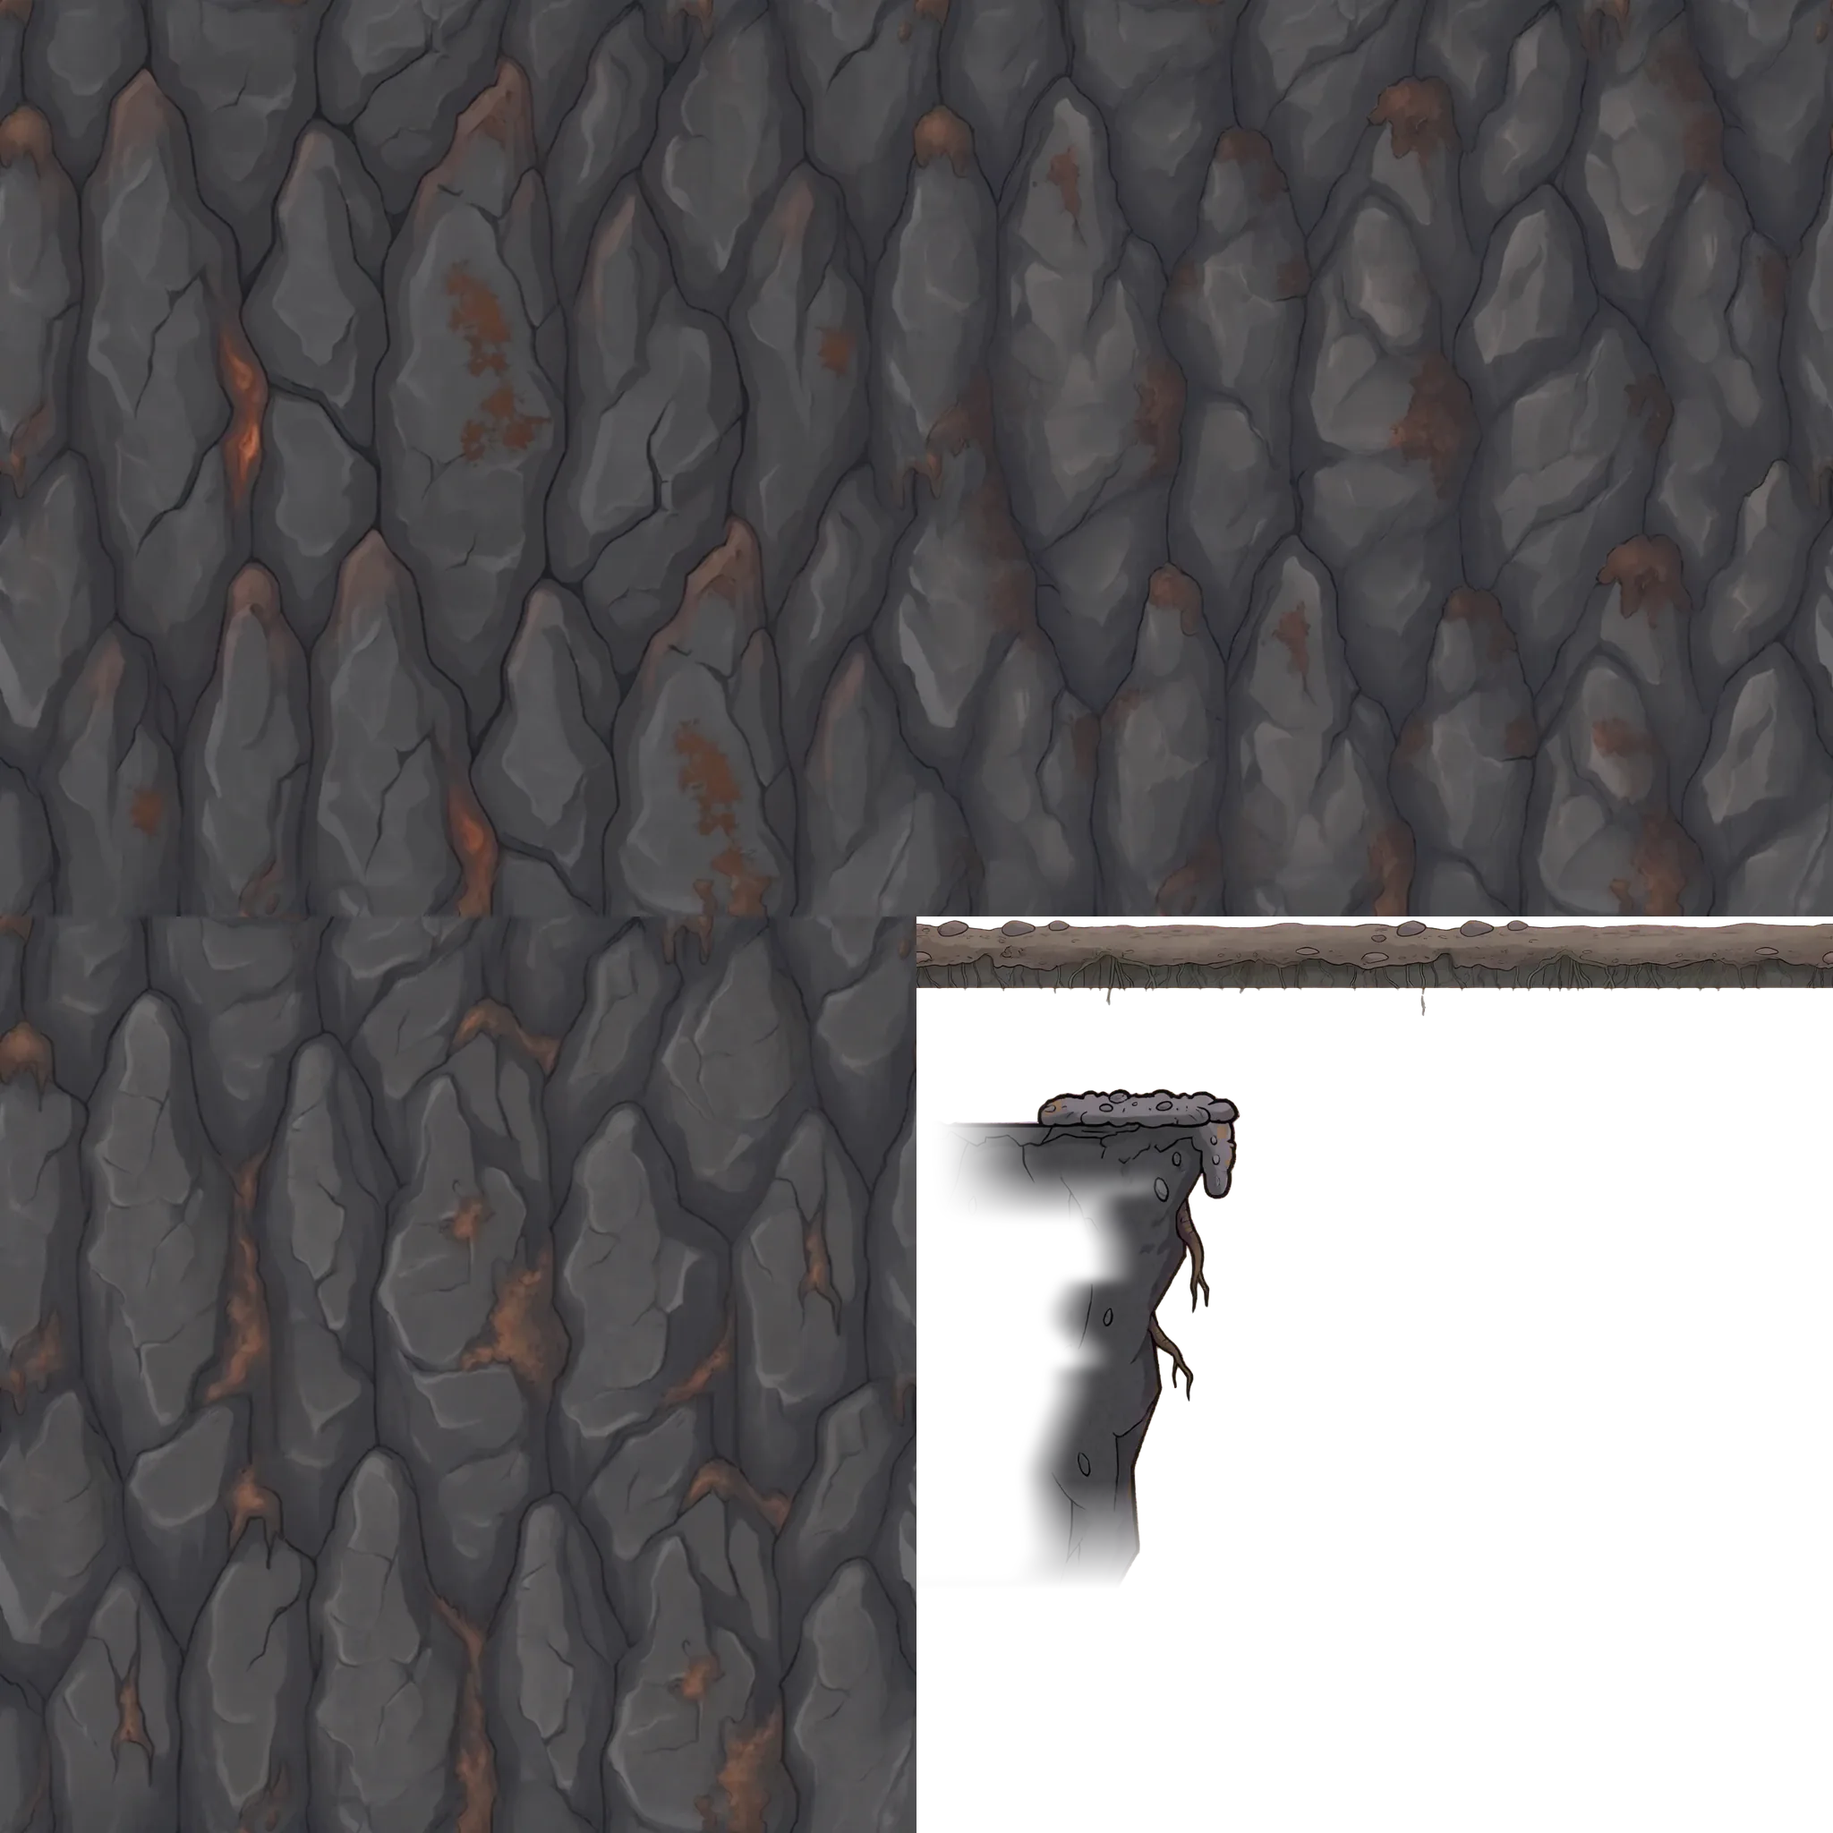
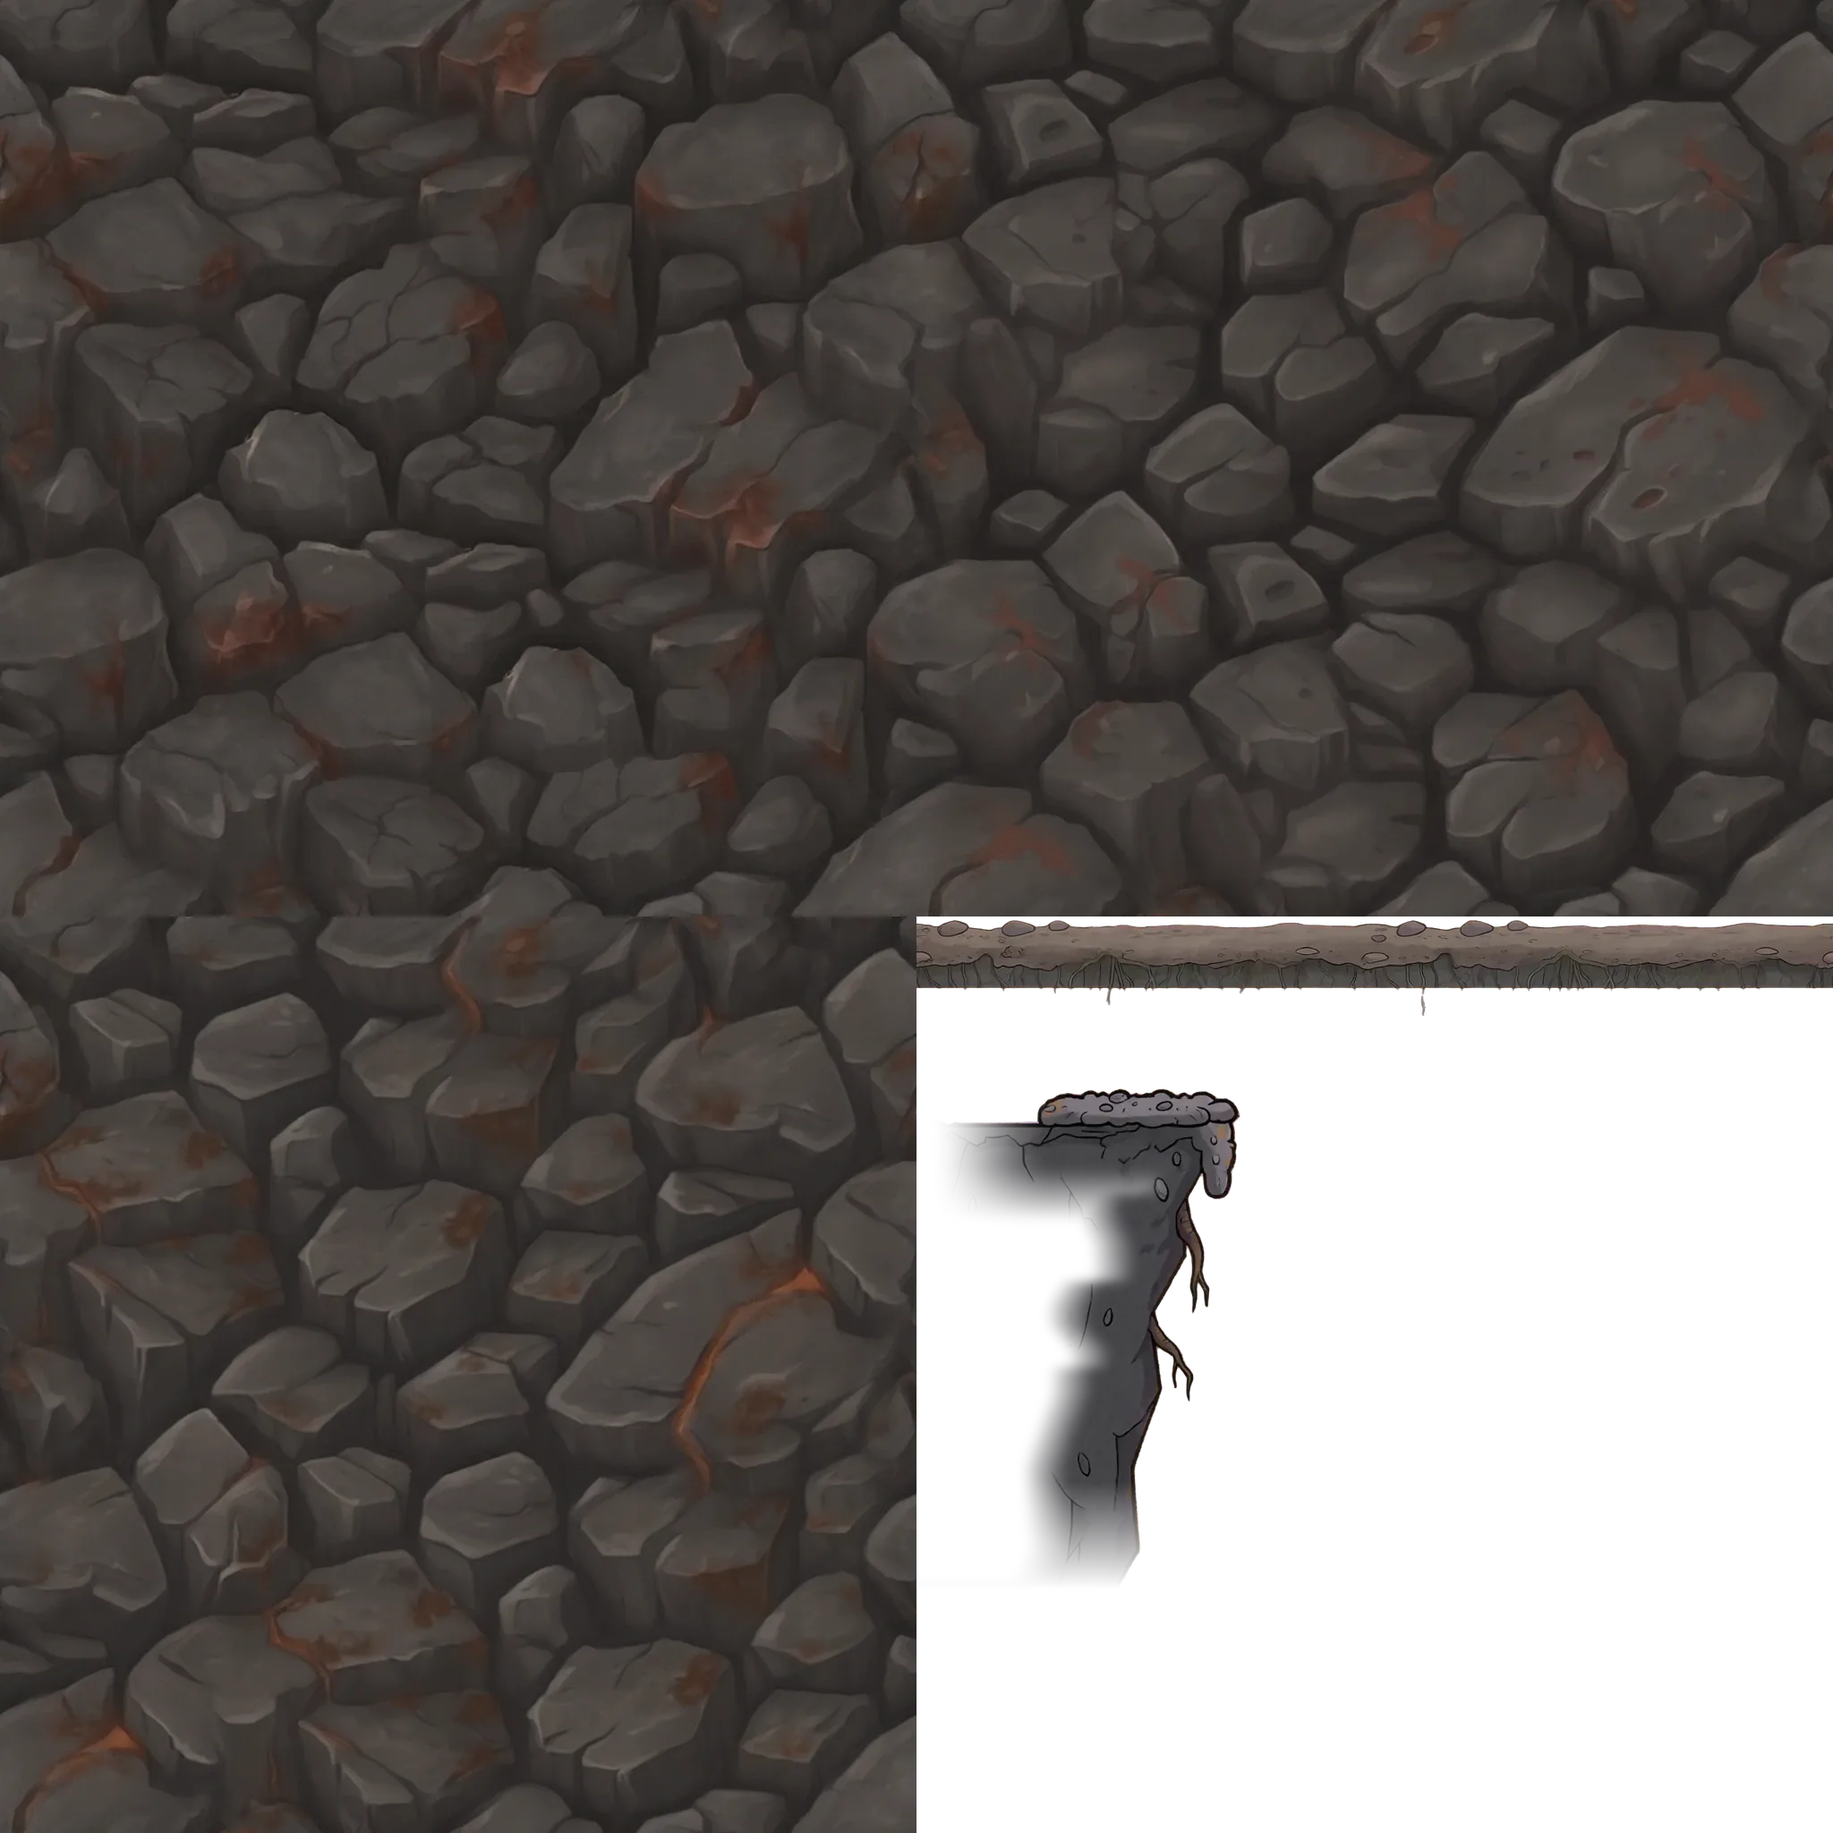
World 10 soil redo (take c), water signs stand on the near lip, 5-7/5-9 sheet test, before/after shots
- w10.webp: three new soil fills from the starts3.py start (job hfg-ground-d, ~$0.11); the old take read as scales. packfill.py
  swaps one world's fills into its sheet.
- gen2 pipeline: the water sign stood at the higher of a gap's two lips (80 units in the air on every 6-1 roll); now the near lip.
- gen2/game.test.ts: 5-7 and 5-9 load 'dress' after 'w5-props' (exact lists kept).
- qa-notes/hf-art-ground: before/after for every world's ground and the World 5 changes, upright and sideways.

Claude-Session: https://claude.ai/code/session_01FhBbYMb4PGpZ7nUd2Eyre1

Changed region(s): [[0.0, 0.0, 1.0, 1.0], [0.5, 0.4688, 0.5312, 0.5], [0.0, 0.9688, 0.0312, 1.0]]

diff --git a/src/game/groundAtlasData.ts b/src/game/groundAtlasData.ts
@@ -14,4 +14,4 @@ export interface GroundSheet {
   end: GroundFrame & { surf: number; cx: number; face: number[] };
   deep: [number, number, number];
 }
-export const GROUND_FRAMES: Record<number, GroundSheet> = {"1": {"fills": [{"x": 0, "y": 0, "w": 1024, "h": 1024}, {"x": 1024, "y": 0, "w": 1024, "h": 1024}, {"x": 0, "y": 1024, "w": 1024, "h": 1024}], "lip": {"x": 1024, "y": 1024, "w": 1024, "h": 160, "surf": 0.2625}, "end": {"x": 1024, "y": 1200, "w": 384, "h": 576, "surf": 0.0955, "cx": 0.8307, "face": [0.7839, 0.8828, 0.8594, 0.7344, 0.7995, 0.6797, 0.7318, 0.6536, 0.4271]}, "deep": [17, 12, 11]}, "2": {"fills": [{"x": 0, "y": 0, "w": 1024, "h": 1024}, {"x": 1024, "y": 0, "w": 1024, "h": 1024}, {"x": 0, "y": 1024, "w": 1024, "h": 1024}], "lip": {"x": 1024, "y": 1024, "w": 1024, "h": 160, "surf": 0.2062}, "end": {"x": 1024, "y": 1200, "w": 384, "h": 576, "surf": 0.0816, "cx": 0.8516, "face": [0.8515625, 0.9453, 0.8542, 0.8542, 0.763, 0.7786, 0.7786, 0.625, 0.5755]}, "deep": [31, 22, 15]}, "3": {"fills": [{"x": 0, "y": 0, "w": 1024, "h": 1024}, {"x": 1024, "y": 0, "w": 1024, "h": 1024}, {"x": 0, "y": 1024, "w": 1024, "h": 1024}], "lip": {"x": 1024, "y": 1024, "w": 1024, "h": 160, "surf": 0.3375}, "end": {"x": 1024, "y": 1200, "w": 384, "h": 576, "surf": 0.092, "cx": 0.8516, "face": [0.7344, 0.9349, 0.7865, 0.8646, 0.7943, 0.8125, 0.7266, 0.625, 0.4271]}, "deep": [25, 31, 29]}, "4": {"fills": [{"x": 0, "y": 0, "w": 1024, "h": 1024}, {"x": 1024, "y": 0, "w": 1024, "h": 1024}, {"x": 0, "y": 1024, "w": 1024, "h": 1024}], "lip": {"x": 1024, "y": 1024, "w": 1024, "h": 160, "surf": 0.2437}, "end": {"x": 1024, "y": 1200, "w": 384, "h": 576, "surf": 0.092, "cx": 0.849, "face": [0.8464, 0.9505, 0.8151, 0.7995, 0.7552, 0.8307, 0.7786, 0.6354, 0.4297]}, "deep": [16, 21, 25]}, "5": {"fills": [{"x": 0, "y": 0, "w": 1024, "h": 1024}, {"x": 1024, "y": 0, "w": 1024, "h": 1024}, {"x": 0, "y": 1024, "w": 1024, "h": 1024}], "lip": {"x": 1024, "y": 1024, "w": 1024, "h": 160, "surf": 0.4062}, "end": {"x": 1024, "y": 1200, "w": 384, "h": 576, "surf": 0.0955, "cx": 0.8516, "face": [0.8359, 0.9479, 0.7474, 0.7031, 0.7448, 0.7188, 0.7318, 0.6536, 0.5833]}, "deep": [24, 19, 15]}, "6": {"fills": [{"x": 0, "y": 0, "w": 1024, "h": 1024}, {"x": 1024, "y": 0, "w": 1024, "h": 1024}, {"x": 0, "y": 1024, "w": 1024, "h": 1024}], "lip": {"x": 1024, "y": 1024, "w": 1024, "h": 160, "surf": 0.2375}, "end": {"x": 1024, "y": 1200, "w": 384, "h": 576, "surf": 0.0851, "cx": 0.875, "face": [0.849, 0.9531, 0.8047, 0.8359, 0.7422, 0.7891, 0.651, 0.6615, 0.5755]}, "deep": [13, 10, 8]}, "7": {"fills": [{"x": 0, "y": 0, "w": 1024, "h": 1024}, {"x": 1024, "y": 0, "w": 1024, "h": 1024}, {"x": 0, "y": 1024, "w": 1024, "h": 1024}], "lip": {"x": 1024, "y": 1024, "w": 1024, "h": 160, "surf": 0.1187}, "end": {"x": 1024, "y": 1200, "w": 384, "h": 576, "surf": 0.0833, "cx": 0.9115, "face": [0.8542, 0.9583, 0.7995, 0.849, 0.8021, 0.6849, 0.7318, 0.6276, 0.5755]}, "deep": [18, 17, 15]}, "8": {"fills": [{"x": 0, "y": 0, "w": 1024, "h": 1024}, {"x": 1024, "y": 0, "w": 1024, "h": 1024}, {"x": 0, "y": 1024, "w": 1024, "h": 1024}], "lip": {"x": 1024, "y": 1024, "w": 1024, "h": 160, "surf": 0.3063}, "end": {"x": 1024, "y": 1200, "w": 384, "h": 576, "surf": 0.0972, "cx": 0.8802, "face": [0.8464, 0.9505, 0.7786, 0.8333, 0.7578, 0.7786, 0.6536, 0.6276, 0.6406]}, "deep": [12, 15, 18]}, "9": {"fills": [{"x": 0, "y": 0, "w": 1024, "h": 1024}, {"x": 1024, "y": 0, "w": 1024, "h": 1024}, {"x": 0, "y": 1024, "w": 1024, "h": 1024}], "lip": {"x": 1024, "y": 1024, "w": 1024, "h": 160, "surf": 0.3375}, "end": {"x": 1024, "y": 1200, "w": 384, "h": 576, "surf": 0.0955, "cx": 0.9401, "face": [0.9167, 0.875, 0.7474, 0.75, 0.8021, 0.7214, 0.737, 0.6589, 0.4297]}, "deep": [11, 11, 12]}, "10": {"fills": [{"x": 0, "y": 0, "w": 1024, "h": 1024}, {"x": 1024, "y": 0, "w": 1024, "h": 1024}, {"x": 0, "y": 1024, "w": 1024, "h": 1024}], "lip": {"x": 1024, "y": 1024, "w": 1024, "h": 160, "surf": 0.0938}, "end": {"x": 1024, "y": 1200, "w": 384, "h": 576, "surf": 0.0938, "cx": 0.9245, "face": [0.9219, 0.9141, 0.8255, 0.849, 0.7708, 0.6849, 0.6328, 0.6432, 0.5885]}, "deep": [15, 14, 15]}};
+export const GROUND_FRAMES: Record<number, GroundSheet> = {"1": {"fills": [{"x": 0, "y": 0, "w": 1024, "h": 1024}, {"x": 1024, "y": 0, "w": 1024, "h": 1024}, {"x": 0, "y": 1024, "w": 1024, "h": 1024}], "lip": {"x": 1024, "y": 1024, "w": 1024, "h": 160, "surf": 0.2625}, "end": {"x": 1024, "y": 1200, "w": 384, "h": 576, "surf": 0.0955, "cx": 0.8307, "face": [0.7839, 0.8828, 0.8594, 0.7344, 0.7995, 0.6797, 0.7318, 0.6536, 0.4271]}, "deep": [17, 12, 11]}, "2": {"fills": [{"x": 0, "y": 0, "w": 1024, "h": 1024}, {"x": 1024, "y": 0, "w": 1024, "h": 1024}, {"x": 0, "y": 1024, "w": 1024, "h": 1024}], "lip": {"x": 1024, "y": 1024, "w": 1024, "h": 160, "surf": 0.2062}, "end": {"x": 1024, "y": 1200, "w": 384, "h": 576, "surf": 0.0816, "cx": 0.8516, "face": [0.8515625, 0.9453, 0.8542, 0.8542, 0.763, 0.7786, 0.7786, 0.625, 0.5755]}, "deep": [31, 22, 15]}, "3": {"fills": [{"x": 0, "y": 0, "w": 1024, "h": 1024}, {"x": 1024, "y": 0, "w": 1024, "h": 1024}, {"x": 0, "y": 1024, "w": 1024, "h": 1024}], "lip": {"x": 1024, "y": 1024, "w": 1024, "h": 160, "surf": 0.3375}, "end": {"x": 1024, "y": 1200, "w": 384, "h": 576, "surf": 0.092, "cx": 0.8516, "face": [0.7344, 0.9349, 0.7865, 0.8646, 0.7943, 0.8125, 0.7266, 0.625, 0.4271]}, "deep": [25, 31, 29]}, "4": {"fills": [{"x": 0, "y": 0, "w": 1024, "h": 1024}, {"x": 1024, "y": 0, "w": 1024, "h": 1024}, {"x": 0, "y": 1024, "w": 1024, "h": 1024}], "lip": {"x": 1024, "y": 1024, "w": 1024, "h": 160, "surf": 0.2437}, "end": {"x": 1024, "y": 1200, "w": 384, "h": 576, "surf": 0.092, "cx": 0.849, "face": [0.8464, 0.9505, 0.8151, 0.7995, 0.7552, 0.8307, 0.7786, 0.6354, 0.4297]}, "deep": [16, 21, 25]}, "5": {"fills": [{"x": 0, "y": 0, "w": 1024, "h": 1024}, {"x": 1024, "y": 0, "w": 1024, "h": 1024}, {"x": 0, "y": 1024, "w": 1024, "h": 1024}], "lip": {"x": 1024, "y": 1024, "w": 1024, "h": 160, "surf": 0.4062}, "end": {"x": 1024, "y": 1200, "w": 384, "h": 576, "surf": 0.0955, "cx": 0.8516, "face": [0.8359, 0.9479, 0.7474, 0.7031, 0.7448, 0.7188, 0.7318, 0.6536, 0.5833]}, "deep": [24, 19, 15]}, "6": {"fills": [{"x": 0, "y": 0, "w": 1024, "h": 1024}, {"x": 1024, "y": 0, "w": 1024, "h": 1024}, {"x": 0, "y": 1024, "w": 1024, "h": 1024}], "lip": {"x": 1024, "y": 1024, "w": 1024, "h": 160, "surf": 0.2375}, "end": {"x": 1024, "y": 1200, "w": 384, "h": 576, "surf": 0.0851, "cx": 0.875, "face": [0.849, 0.9531, 0.8047, 0.8359, 0.7422, 0.7891, 0.651, 0.6615, 0.5755]}, "deep": [13, 10, 8]}, "7": {"fills": [{"x": 0, "y": 0, "w": 1024, "h": 1024}, {"x": 1024, "y": 0, "w": 1024, "h": 1024}, {"x": 0, "y": 1024, "w": 1024, "h": 1024}], "lip": {"x": 1024, "y": 1024, "w": 1024, "h": 160, "surf": 0.1187}, "end": {"x": 1024, "y": 1200, "w": 384, "h": 576, "surf": 0.0833, "cx": 0.9115, "face": [0.8542, 0.9583, 0.7995, 0.849, 0.8021, 0.6849, 0.7318, 0.6276, 0.5755]}, "deep": [18, 17, 15]}, "8": {"fills": [{"x": 0, "y": 0, "w": 1024, "h": 1024}, {"x": 1024, "y": 0, "w": 1024, "h": 1024}, {"x": 0, "y": 1024, "w": 1024, "h": 1024}], "lip": {"x": 1024, "y": 1024, "w": 1024, "h": 160, "surf": 0.3063}, "end": {"x": 1024, "y": 1200, "w": 384, "h": 576, "surf": 0.0972, "cx": 0.8802, "face": [0.8464, 0.9505, 0.7786, 0.8333, 0.7578, 0.7786, 0.6536, 0.6276, 0.6406]}, "deep": [12, 15, 18]}, "9": {"fills": [{"x": 0, "y": 0, "w": 1024, "h": 1024}, {"x": 1024, "y": 0, "w": 1024, "h": 1024}, {"x": 0, "y": 1024, "w": 1024, "h": 1024}], "lip": {"x": 1024, "y": 1024, "w": 1024, "h": 160, "surf": 0.3375}, "end": {"x": 1024, "y": 1200, "w": 384, "h": 576, "surf": 0.0955, "cx": 0.9401, "face": [0.9167, 0.875, 0.7474, 0.75, 0.8021, 0.7214, 0.737, 0.6589, 0.4297]}, "deep": [11, 11, 12]}, "10": {"fills": [{"x": 0, "y": 0, "w": 1024, "h": 1024}, {"x": 1024, "y": 0, "w": 1024, "h": 1024}, {"x": 0, "y": 1024, "w": 1024, "h": 1024}], "lip": {"x": 1024, "y": 1024, "w": 1024, "h": 160, "surf": 0.0938}, "end": {"x": 1024, "y": 1200, "w": 384, "h": 576, "surf": 0.0938, "cx": 0.9245, "face": [0.9219, 0.9141, 0.8255, 0.849, 0.7708, 0.6849, 0.6328, 0.6432, 0.5885]}, "deep": [13, 12, 11]}};

diff --git a/src/game/gen2/game.test.ts b/src/game/gen2/game.test.ts
@@ -139,8 +139,8 @@ test('the layout memory: a retry keeps the roll, and after a clear the next roll
 
 test("a gen2 stage loads World 5's sheets before it starts: the kit, its dressing, the spiders, and 5-9's puzzle pieces", () => {
   const on = { hand: true, paint: true, ctest: false };
-  assert.deepEqual(stageSheets(lv('5-7'), on), ['kit:1', 'kit:5', 'w5-props', 'foe:spider', 'perch']);
-  assert.deepEqual(stageSheets(lv('5-9'), on), ['kit:1', 'kit:5', 'w5-props', 'foe:spider', 'kit-pieces', 'perch']);
+  assert.deepEqual(stageSheets(lv('5-7'), on), ['kit:1', 'kit:5', 'w5-props', 'dress', 'foe:spider', 'perch']);
+  assert.deepEqual(stageSheets(lv('5-9'), on), ['kit:1', 'kit:5', 'w5-props', 'dress', 'foe:spider', 'kit-pieces', 'perch']);
   // (with or without the hand-built switch: gen2 is the only 5-7 there is)
   assert.deepEqual(stageSheets(lv('5-7'), { ...on, hand: false }), stageSheets(lv('5-7'), on));
 });

diff --git a/src/game/gen2/pipeline.ts b/src/game/gen2/pipeline.ts
@@ -1289,7 +1289,10 @@ export function fillSockets(laid: Laid, budget: StageBudget, kit: WorldKit, seed
       if (signs.length && (!easy || g.x0 - last < every)) continue;
       const x = R(Math.max(laid.spawn.x + 40, g.x0 - WATER_WARN.lead));
       hints.push({ x, text, pad: text, keys: text, passX: R(g.x1 + 80) });
-      signs.push({ x: R(g.x0 - 40), y: R(g.y) });
+      // (the sign stands on the near lip: g.y is the higher of the two lips, so where the far side stood higher the sign hung in the air)
+      const sx = g.x0 - 40;
+      const lip = laid.platforms.filter((q) => q.x <= sx && q.x + q.width >= sx && q.y >= g.y - 1).reduce((m, q) => Math.min(m, q.y), Infinity);
+      signs.push({ x: R(sx), y: R(Number.isFinite(lip) ? lip : g.y) });
       fills.push({ section: g.section ?? '', socket: 'water', role: 'tip', what: 'water', x, y: R(g.y) });
       last = g.x0;
     }

diff --git a/tools/art/hfground/packfill.py b/tools/art/hfground/packfill.py
@@ -1,0 +1,31 @@
+"""Swap one world's three soil fills into its ground sheet, keeping its lip and end (hf-art-ground, 2026-10-29: World 10's redo).
+    python3 tools/art/hfground/packfill.py <raw dir> <world> <take>     e.g.  work/raw 10 fill-w10-c
+Updates src/assets/ground/w<world>.webp, the world's `deep` colour in src/game/groundAtlasData.ts and picks.json.
+"""
+import json, re, sys
+from pathlib import Path
+
+import numpy as np
+from PIL import Image
+
+HERE = Path(__file__).parent
+ROOT = HERE.parent.parent.parent
+raw, w, take = Path(sys.argv[1]), sys.argv[2], sys.argv[3]
+sheet = ROOT / f'src/assets/ground/w{w}.webp'
+S = Image.open(sheet).convert('RGBA')
+fills = [Image.open(raw / f'{take}-v{s}.webp').convert('RGB') for s in (3, 5, 7)]
+for im, (x, y) in zip(fills, [(0, 0), (1024, 0), (0, 1024)]):
+    S.paste(im.resize((1024, 1024), Image.LANCZOS).convert('RGBA'), (x, y))
+S.save(sheet, 'WEBP', quality=82, method=6)
+deep = [int(c * 0.22) for c in np.asarray(fills[0], np.float32).mean((0, 1))]
+ts = ROOT / 'src/game/groundAtlasData.ts'
+src = ts.read_text()
+# the world's entry: its `deep` array is the first after the key
+m = re.search(rf'("{w}": \{{.*?"deep": \[)[^\]]*(\])', src)
+assert m, 'world entry not found'
+src = src[:m.start()] + m.group(1) + ', '.join(map(str, deep)) + m.group(2) + src[m.end():]
+ts.write_text(src)
+pk = json.loads((HERE / 'picks.json').read_text())
+pk[w]['fill'] = take
+(HERE / 'picks.json').write_text(json.dumps(pk, indent=1) + '\n')
+print(sheet, sheet.stat().st_size, 'deep', deep)

diff --git a/reference/prop-sheets/qa-notes/hf-art-ground/HANDOFF.md b/reference/prop-sheets/qa-notes/hf-art-ground/HANDOFF.md
@@ -122,3 +122,17 @@ cost). No job is running.
 - Rough spots seen, not mine to fix here:
   - a flat green code-drawn block in 5-1's pit (a rock platform, x about 7700);
   - the lips are thin (a 22-30 unit moss band). LIP_W in groundPaint.ts can be raised to about 700 if Matt wants a heavier lip.
+
+## Cloud round (2026-10-29, ~3:30 PM ET)
+- Dressing (VI-17) checked over every World 1/2/5 stage, 8 rolls each (`work/dresscheck.ts`, git-ignored): nothing floats; fixed
+  pieces standing in bounce pads, steps and walls (`free()`), hanging moss in front of a pickup, hanging moss under logs lying at ground
+  level across wide water (now the two nearest banks, any distance), two bank sets facing each other across a pit (600+ apart now), the
+  same piece twice side by side (clutter keeps 440/700 clear of bank sets), and each set laid in a turned order. Left: the fern always
+  stands half in front of the mushroom in World 1's bank set A (by design: a cluster).
+- 5-6 and 5-8 are the old generator and get no dressing (no `proto`).
+- LIP_W 560 -> 700 (`work/lip-*.jpg` compared 560/700/840; 840 covered his feet in World 9's stone).
+- World 10 soil redone: new start (`starts3.py`, broken blocks), job hfg-ground-d, pick fill-w10-c swapped in by `packfill.py`.
+  `review-w10-redo.jpg`.
+- Water signs: gen2 stood the sign at the higher of a gap's two lips, so on 6-1 it hung 80 units in the air; it now stands on the near
+  lip (gen2/pipeline.ts). `after-6-1-sign-*.jpg`.
+- Before/after: `ba-<stage>.jpg` (upright and sideways, before above, after below).
